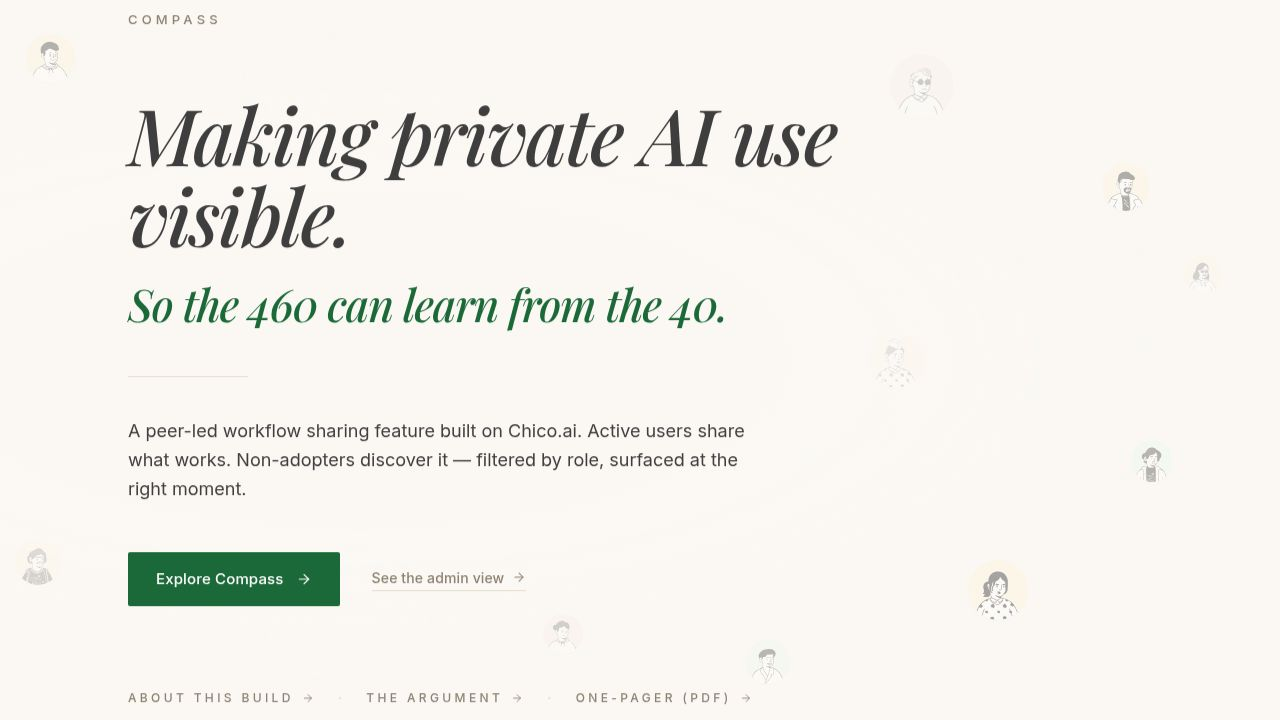
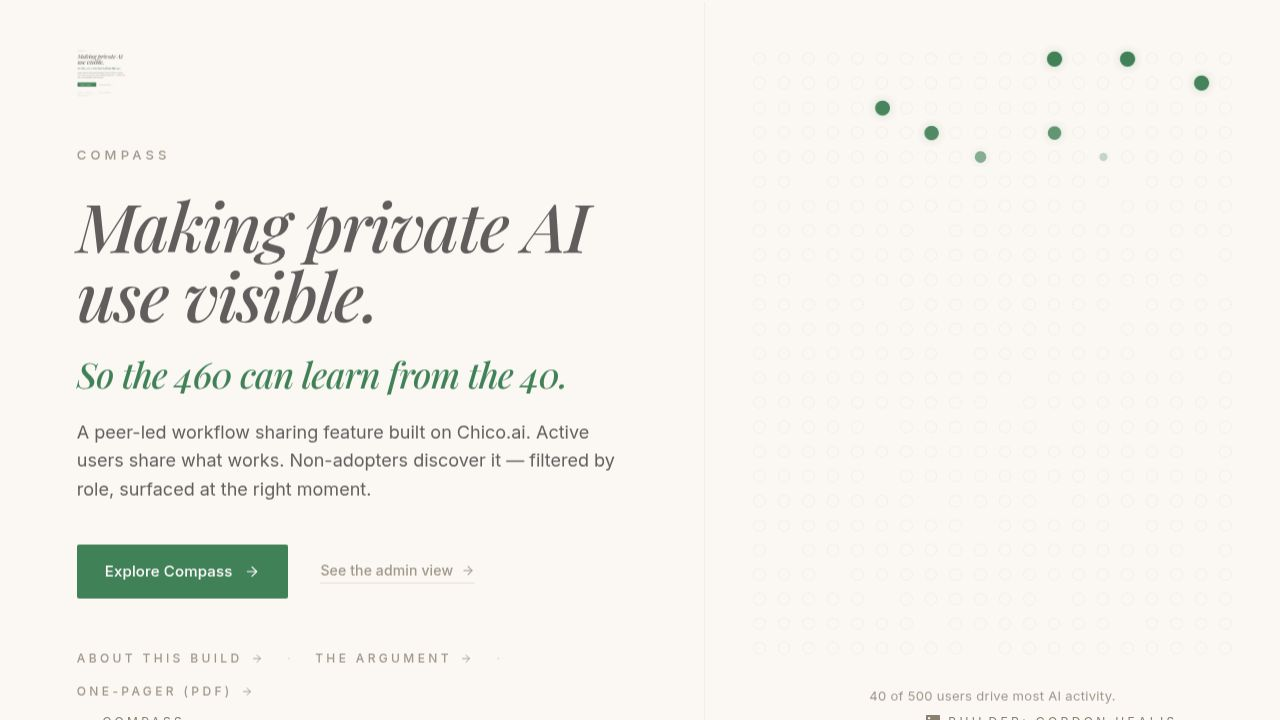
Adjust page layout and spacing for better presentation
Update cover page layout, replace SVG compass with an image, and adjust vertical spacing for content elements.

Replit-Commit-Author: Agent
Replit-Commit-Session-Id: bb085144-4a55-4fba-bbe7-a8d54c4f6e35
Replit-Commit-Checkpoint-Type: full_checkpoint
Replit-Commit-Event-Id: ab59f495-1908-42cf-9312-c227b8f8c6e2
Replit-Commit-Screenshot-Url: https://storage.googleapis.com/screenshot-production-us-central1/4c55c16f-4ca3-4b06-b9d0-ecf53a3e52b4/bb085144-4a55-4fba-bbe7-a8d54c4f6e35/QKByvnZ
Replit-Helium-Checkpoint-Created: true

diff --git a/artifacts/workflow-mirror/src/pages/cover.tsx b/artifacts/workflow-mirror/src/pages/cover.tsx
@@ -1,6 +1,7 @@
 import { useState } from "react";
 import { Link, useLocation } from "wouter";
 import { ArrowRight } from "lucide-react";
+import compassMarkUrl from "@assets/image_1778283978011.png";
 
 const TOKENS = {
   primary: "#166534",
@@ -32,26 +33,6 @@ const ACTIVE_ORDER: Record<number, number> = ACTIVE_INDICES_ARR
 const TOTAL_DOTS = 500;
 const GRID_COLS = 20;
 
-function CompassMark({ size = 48 }: { size?: number }) {
-  return (
-    <svg
-      width={size}
-      height={size}
-      viewBox="0 0 64 64"
-      fill="none"
-      xmlns="http://www.w3.org/2000/svg"
-      style={{ color: TOKENS.primary }}
-      aria-hidden="true"
-    >
-      <circle cx="32" cy="32" r="29" stroke="currentColor" strokeWidth={2.2} fill="none" />
-      <g transform="rotate(-22 32 32)">
-        <path d="M32 10 L36 32 L32 54 L28 32 Z" fill="currentColor" />
-        <circle cx="32" cy="32" r="2.2" fill={TOKENS.bg} />
-      </g>
-    </svg>
-  );
-}
-
 export default function CoverPage() {
   const [, navigate] = useLocation();
   const [transitioning, setTransitioning] = useState(false);
@@ -78,13 +59,12 @@ export default function CoverPage() {
           animation: "wm-cover-fade 900ms ease-out both",
         }}
       >
-        {/* Left column — content */}
-        <div className="flex w-full flex-col justify-center px-[8vw] py-16 lg:w-[55%] lg:px-[6vw] lg:py-24">
-          <div className="mb-12 lg:mb-16">
-            <CompassMark size={48} />
+        <div className="flex w-full flex-col justify-center px-[8vw] pt-12 pb-10 lg:w-[55%] lg:px-[6vw] lg:pt-12 lg:pb-14">
+          <div className="mb-10 lg:mb-12">
+            <img src={compassMarkUrl} alt="Compass" className="block h-12 w-12" />
           </div>
 
-          <div className="max-w-[640px] space-y-6">
+          <div className="max-w-[640px] space-y-5 lg:space-y-6">
             <div
               className="text-[12px] md:text-[13px] font-medium"
               style={{ color: TOKENS.muted, letterSpacing: "0.32em" }}
@@ -115,7 +95,7 @@ export default function CoverPage() {
             </p>
           </div>
 
-          <div className="mt-10 md:mt-12 flex flex-wrap items-center gap-x-8 gap-y-4">
+          <div className="mt-9 md:mt-10 flex flex-wrap items-center gap-x-8 gap-y-4">
             <button
               type="button"
               onClick={handleEnter}
@@ -147,7 +127,7 @@ export default function CoverPage() {
             </Link>
           </div>
 
-          <div className="mt-12 md:mt-16 flex flex-wrap items-center gap-x-6 gap-y-3">
+          <div className="mt-11 md:mt-12 flex flex-wrap items-center gap-x-6 gap-y-3">
             <Link
               href="/about"
               data-testid="link-about-build"
@@ -181,7 +161,6 @@ export default function CoverPage() {
           </div>
         </div>
 
-        {/* Right column — 500 dot grid (the 40 vs 460 made visible) */}
         <div
           className="relative flex w-full items-center justify-center px-[8vw] pb-24 pt-4 lg:w-[45%] lg:border-l lg:px-12 lg:pb-12 lg:pt-12"
           style={{ borderColor: "rgba(58,58,58,0.06)" }}
@@ -219,7 +198,6 @@ export default function CoverPage() {
         </div>
       </main>
 
-      {/* Inverted transition flash */}
       <div
         aria-hidden
         className="absolute inset-0 pointer-events-none flex items-center px-[8vw] md:px-[10vw] z-20"